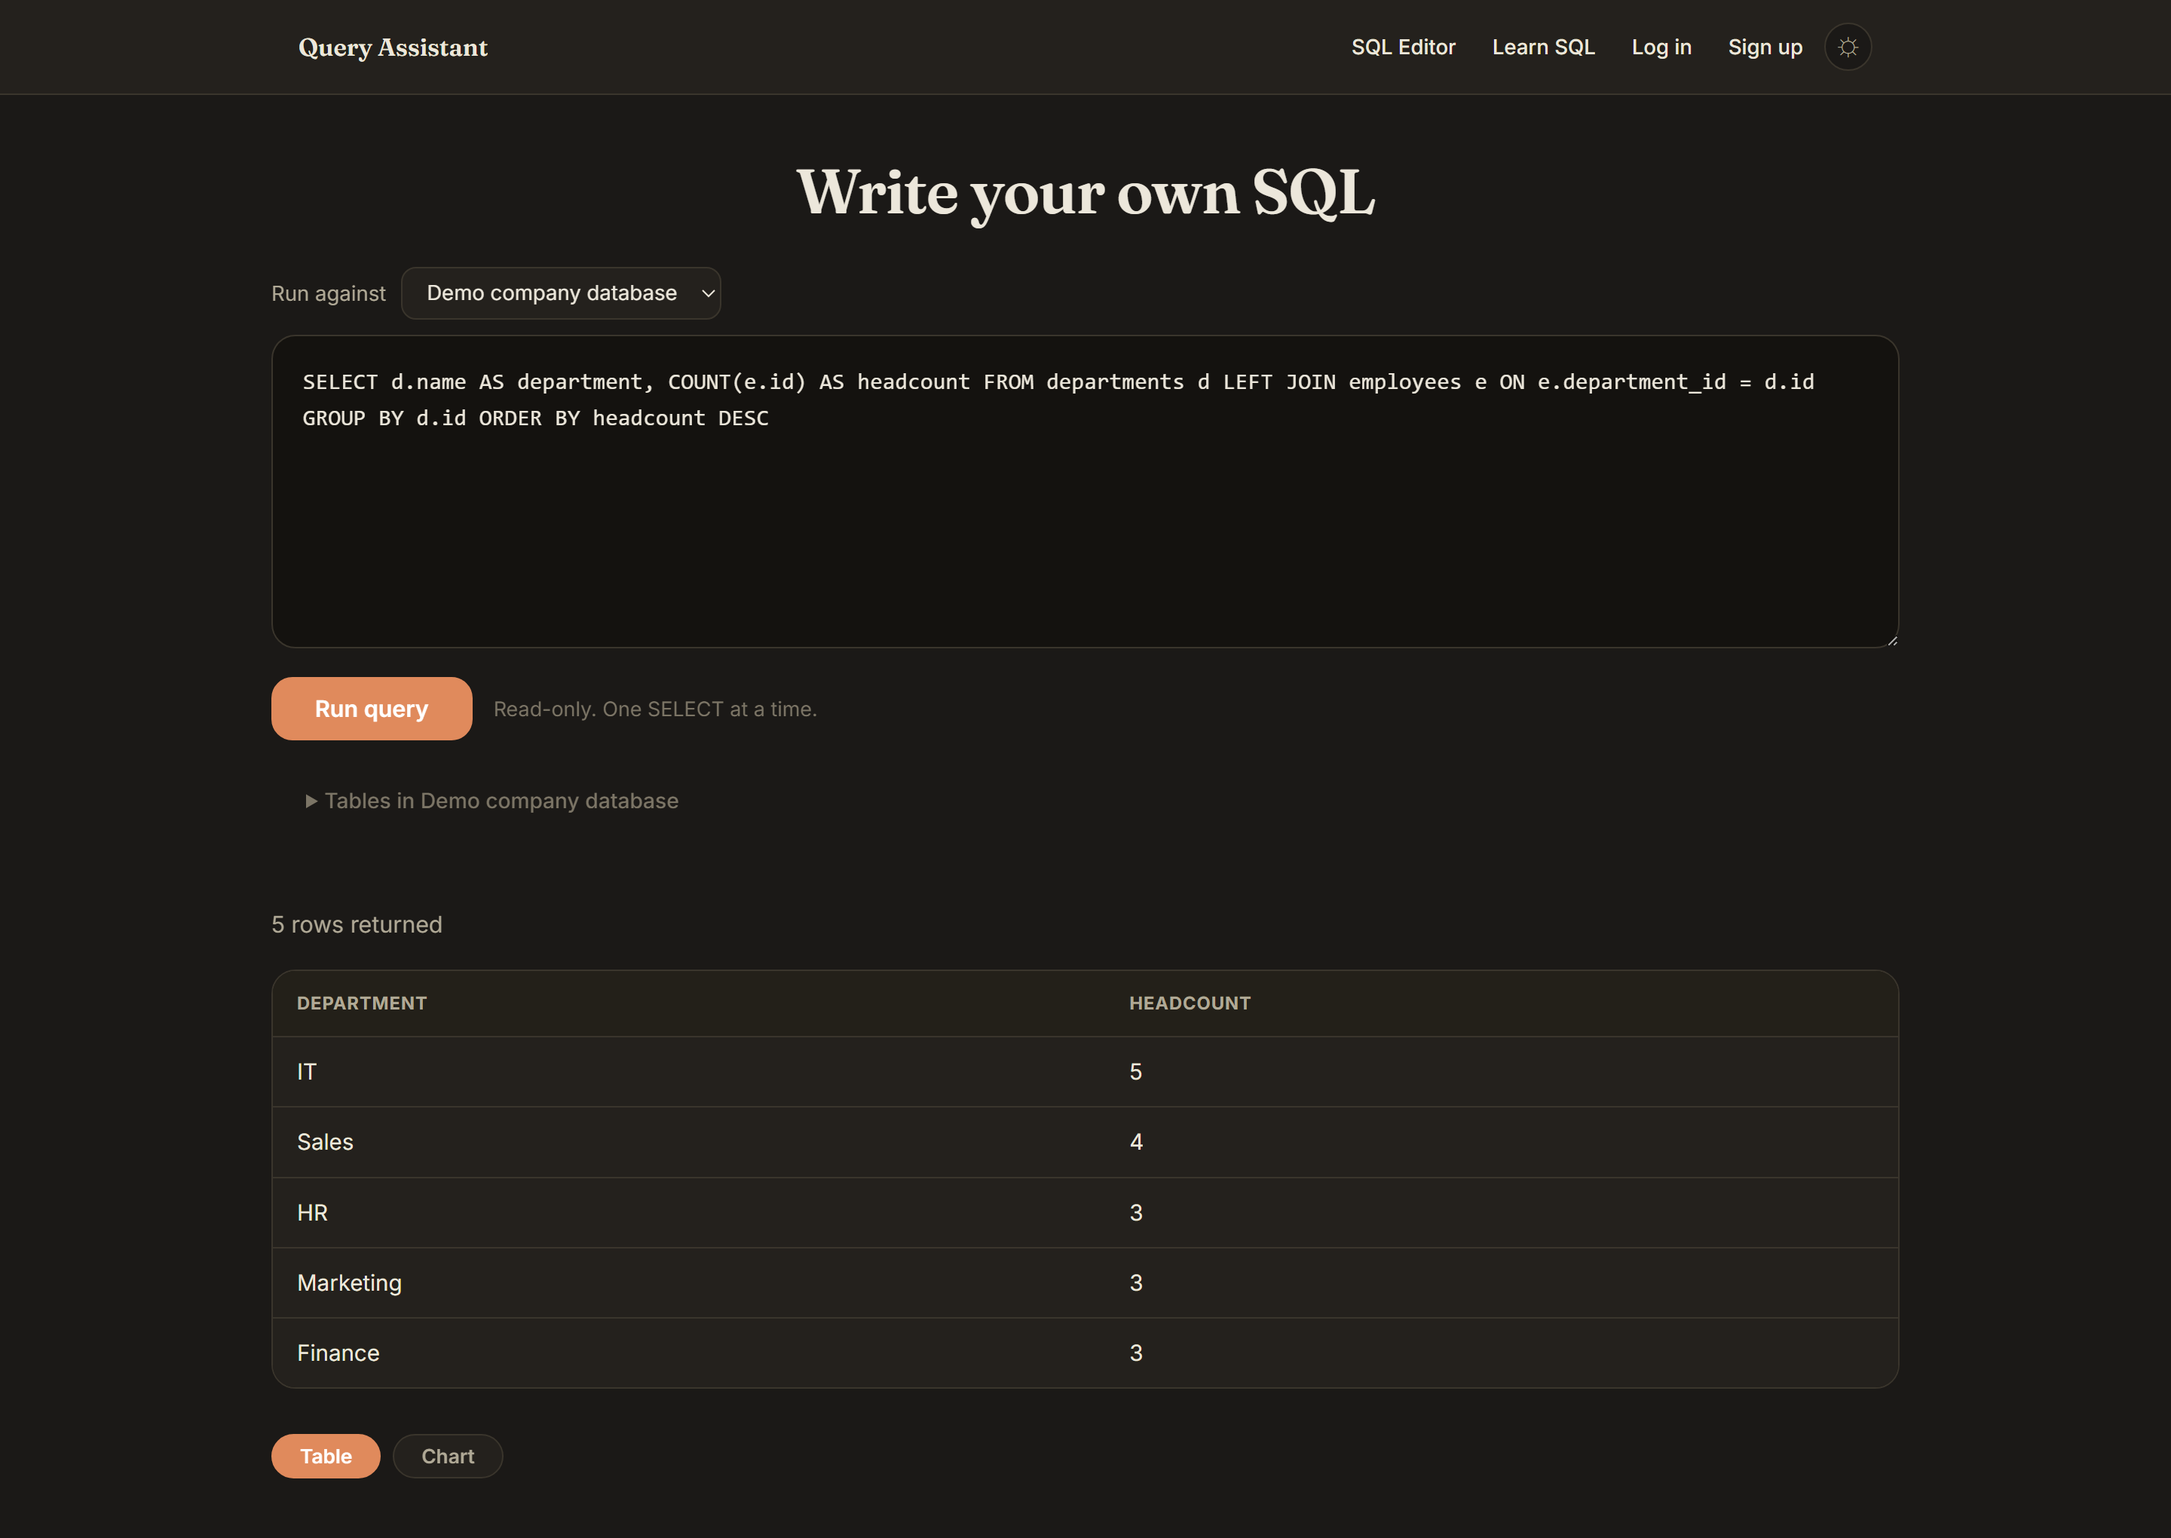
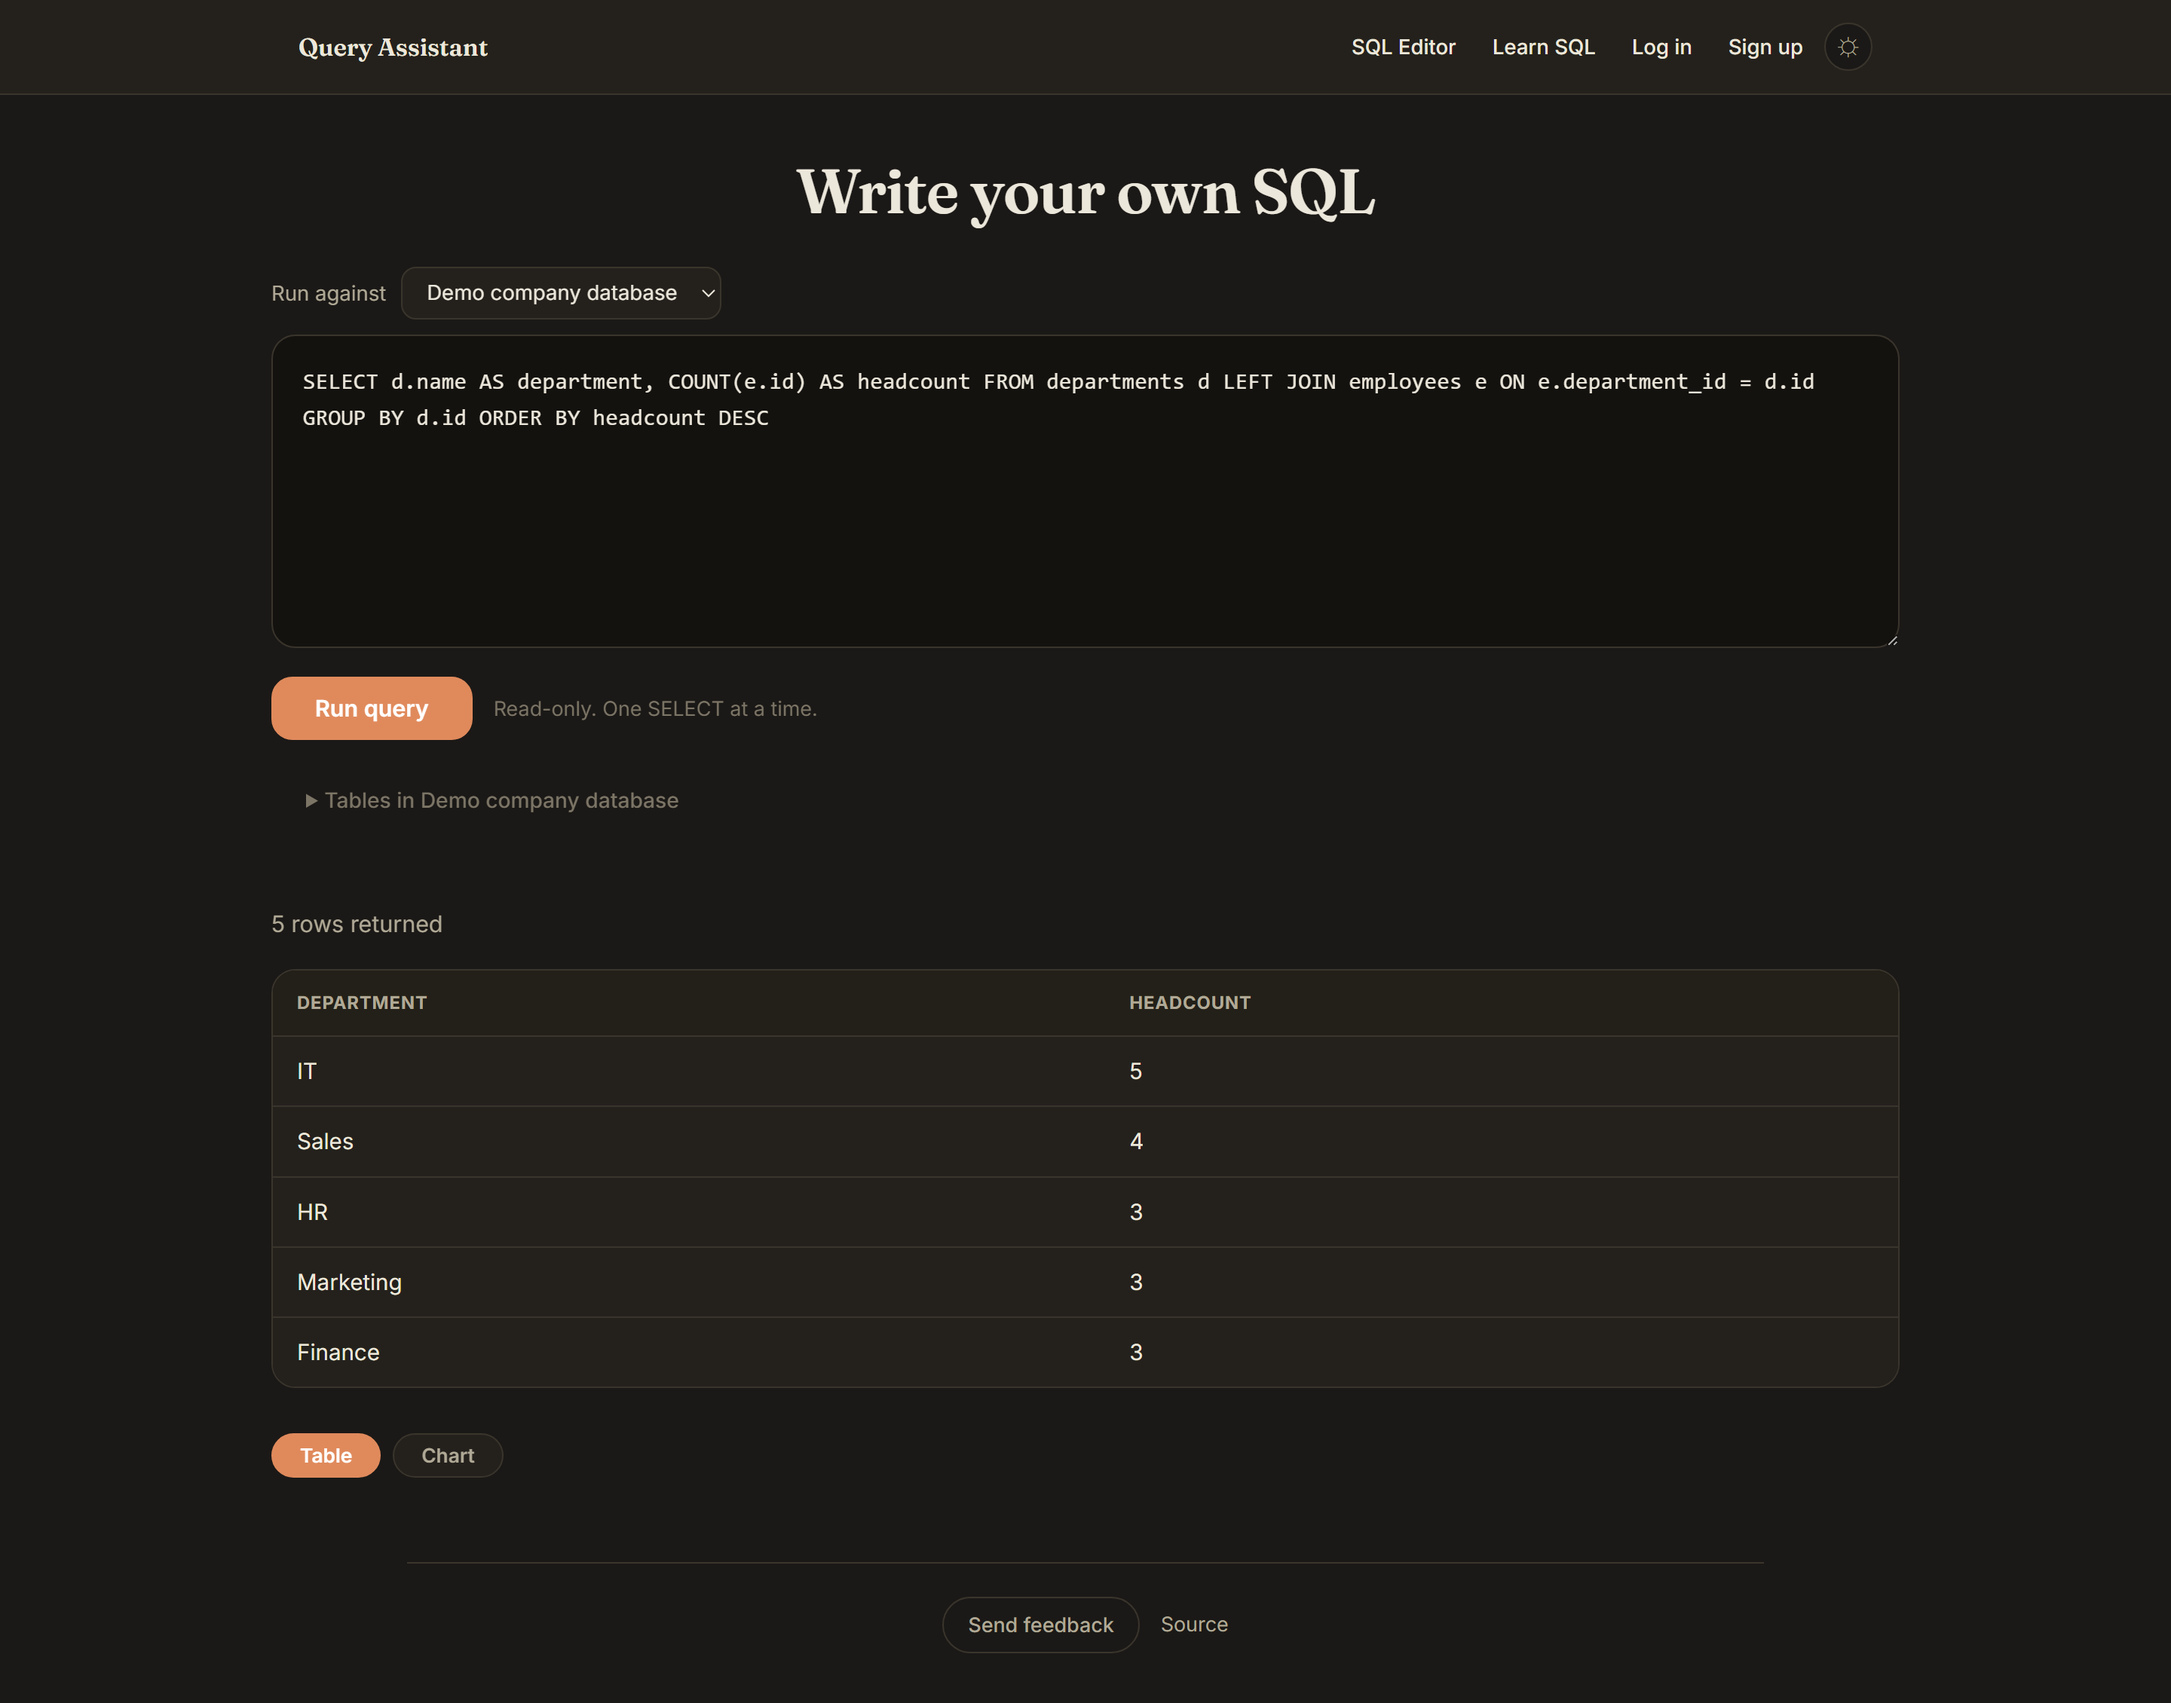
Retake the screenshots, which were three features behind
All of them predated the footer, the greeting, the restyled links, and the Learn
page's nav — so the README was showing a version of the app that no longer exists.

Two are new: the SQL editor running a real query, and the feedback page. The
result shots now run down past the generated SQL to the footer, rather than
stopping halfway.

The home shot says "Working late?" because it was taken at 2am, which is the
greeting working. The caption says so, since a hero image reading "Working late?"
with no explanation is a puzzle rather than a feature.

Light theme moves into the grid instead of hiding behind a <details> — it's one of
the six things worth seeing, not a footnote. And upload.png goes: nothing had
referenced it since the SQL editor took its place in the table.

diff --git a/README.md b/README.md
@@ -123,20 +123,18 @@ because the department filter fell through without a word.
 
 <table>
 <tr>
-<td width="50%"><img src="docs/screenshots/home.png" alt="The home page: a search box and example questions"><br><b>Ask anything</b><br>Example questions to start from; the schema is one click away.</td>
-<td width="50%"><img src="docs/screenshots/learn.png" alt="The Learn SQL guide"><br><b>Learn SQL</b><br>Every example is a real query you can run against the demo data.</td>
+<td width="50%"><img src="docs/screenshots/home.png" alt="The home page: a greeting, a search box and example questions"><br><b>Ask anything</b><br>The heading follows the reader's clock — this one was taken at 2am.</td>
+<td width="50%"><img src="docs/screenshots/sql-editor.png" alt="The SQL editor with a query and its results"><br><b>Or write the SQL yourself</b><br>Read-only, one SELECT, against whichever source you pick.</td>
 </tr>
 <tr>
-<td><img src="docs/screenshots/sql-editor.png" alt="The SQL editor with a query and its results"><br><b>Write your own SQL</b><br>Read-only, one SELECT, against whichever source you pick.</td>
+<td><img src="docs/screenshots/learn.png" alt="The Learn SQL guide"><br><b>Learn SQL</b><br>Every example is a real query you can run against the demo data.</td>
 <td><img src="docs/screenshots/connect-db.png" alt="The connect-a-database page"><br><b>Connect a database</b><br>A SQLite file, or a PostgreSQL / Supabase connection string.</td>
 </tr>
+<tr>
+<td><img src="docs/screenshots/feedback.png" alt="The feedback page"><br><b>Say what's wrong</b><br>Stored rather than emailed, so it can't fail quietly.</td>
+<td><img src="docs/screenshots/query-result-light.png" alt="The results page in light theme"><br><b>Light theme</b><br>Follows your preference, remembered across visits.</td>
+</tr>
 </table>
-
-<details>
-<summary><b>Light theme</b></summary>
-<br>
-<img src="docs/screenshots/query-result-light.png" alt="The same results page in light theme" width="100%">
-</details>
 
 ## Data sources
 
